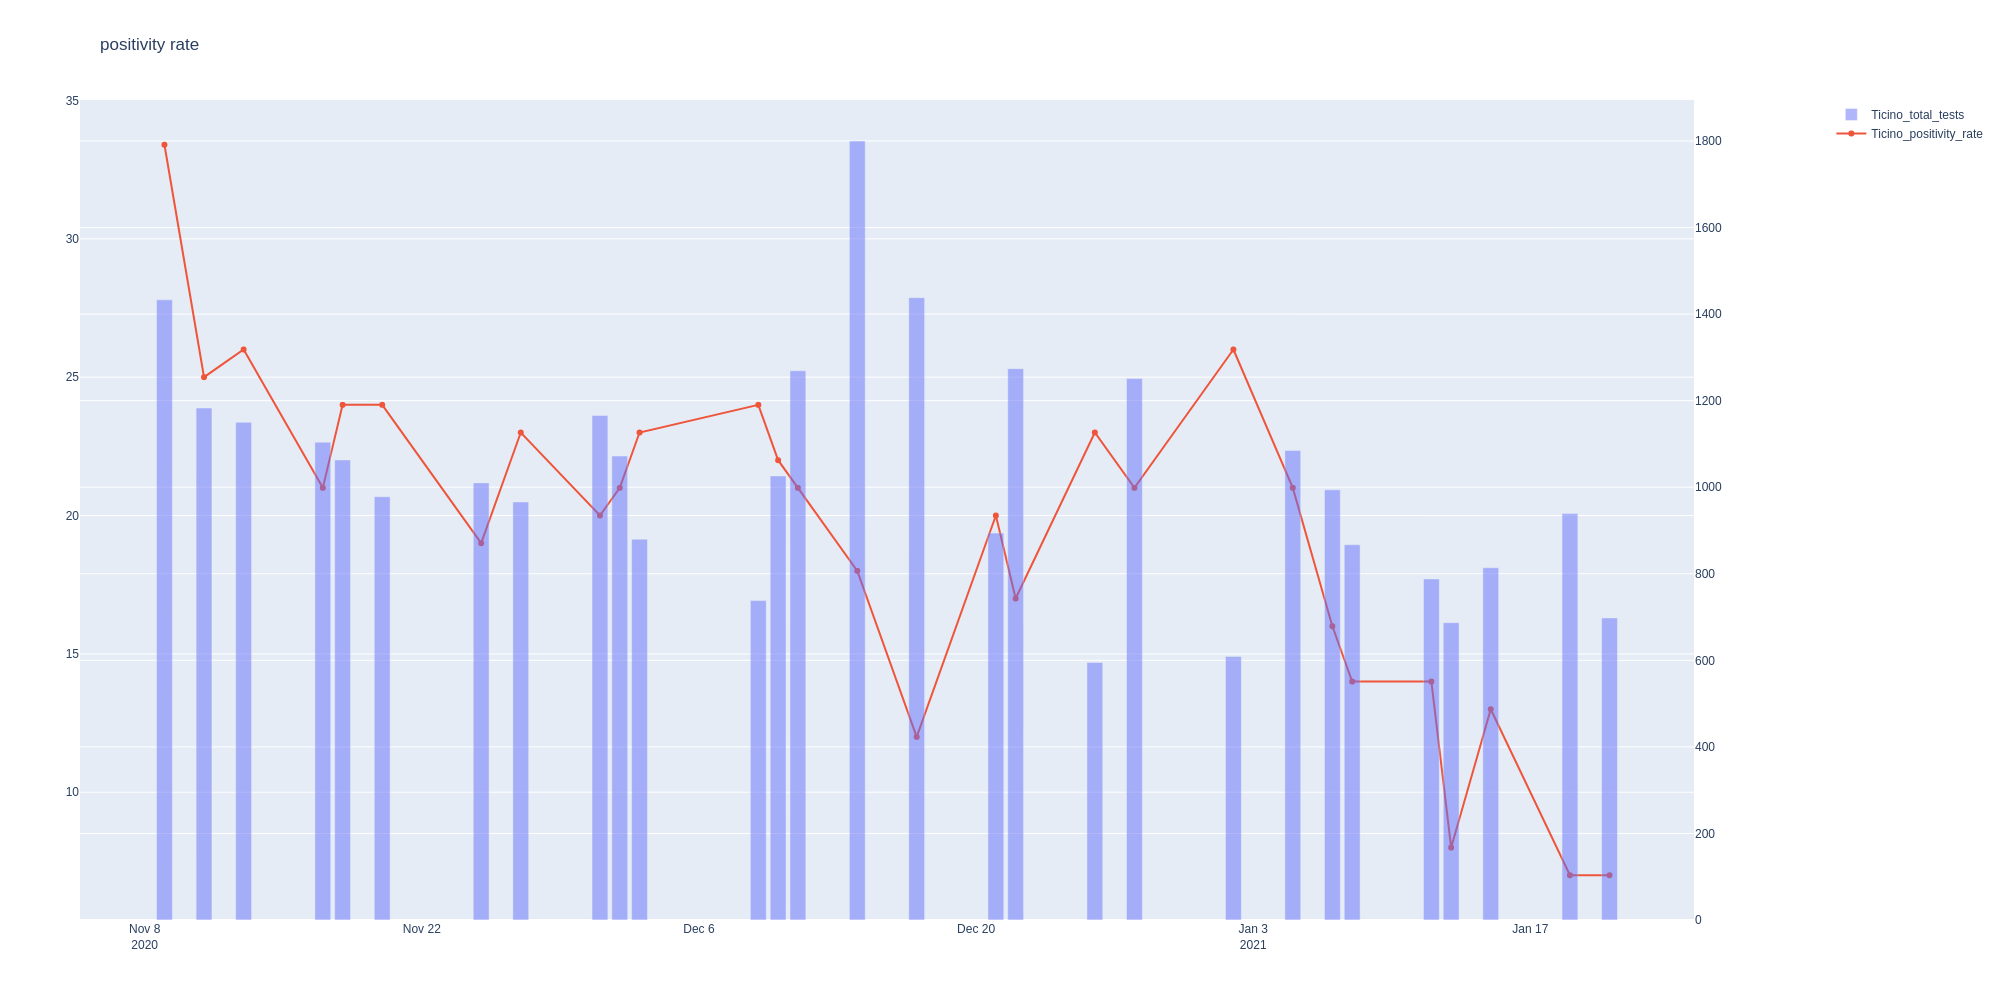
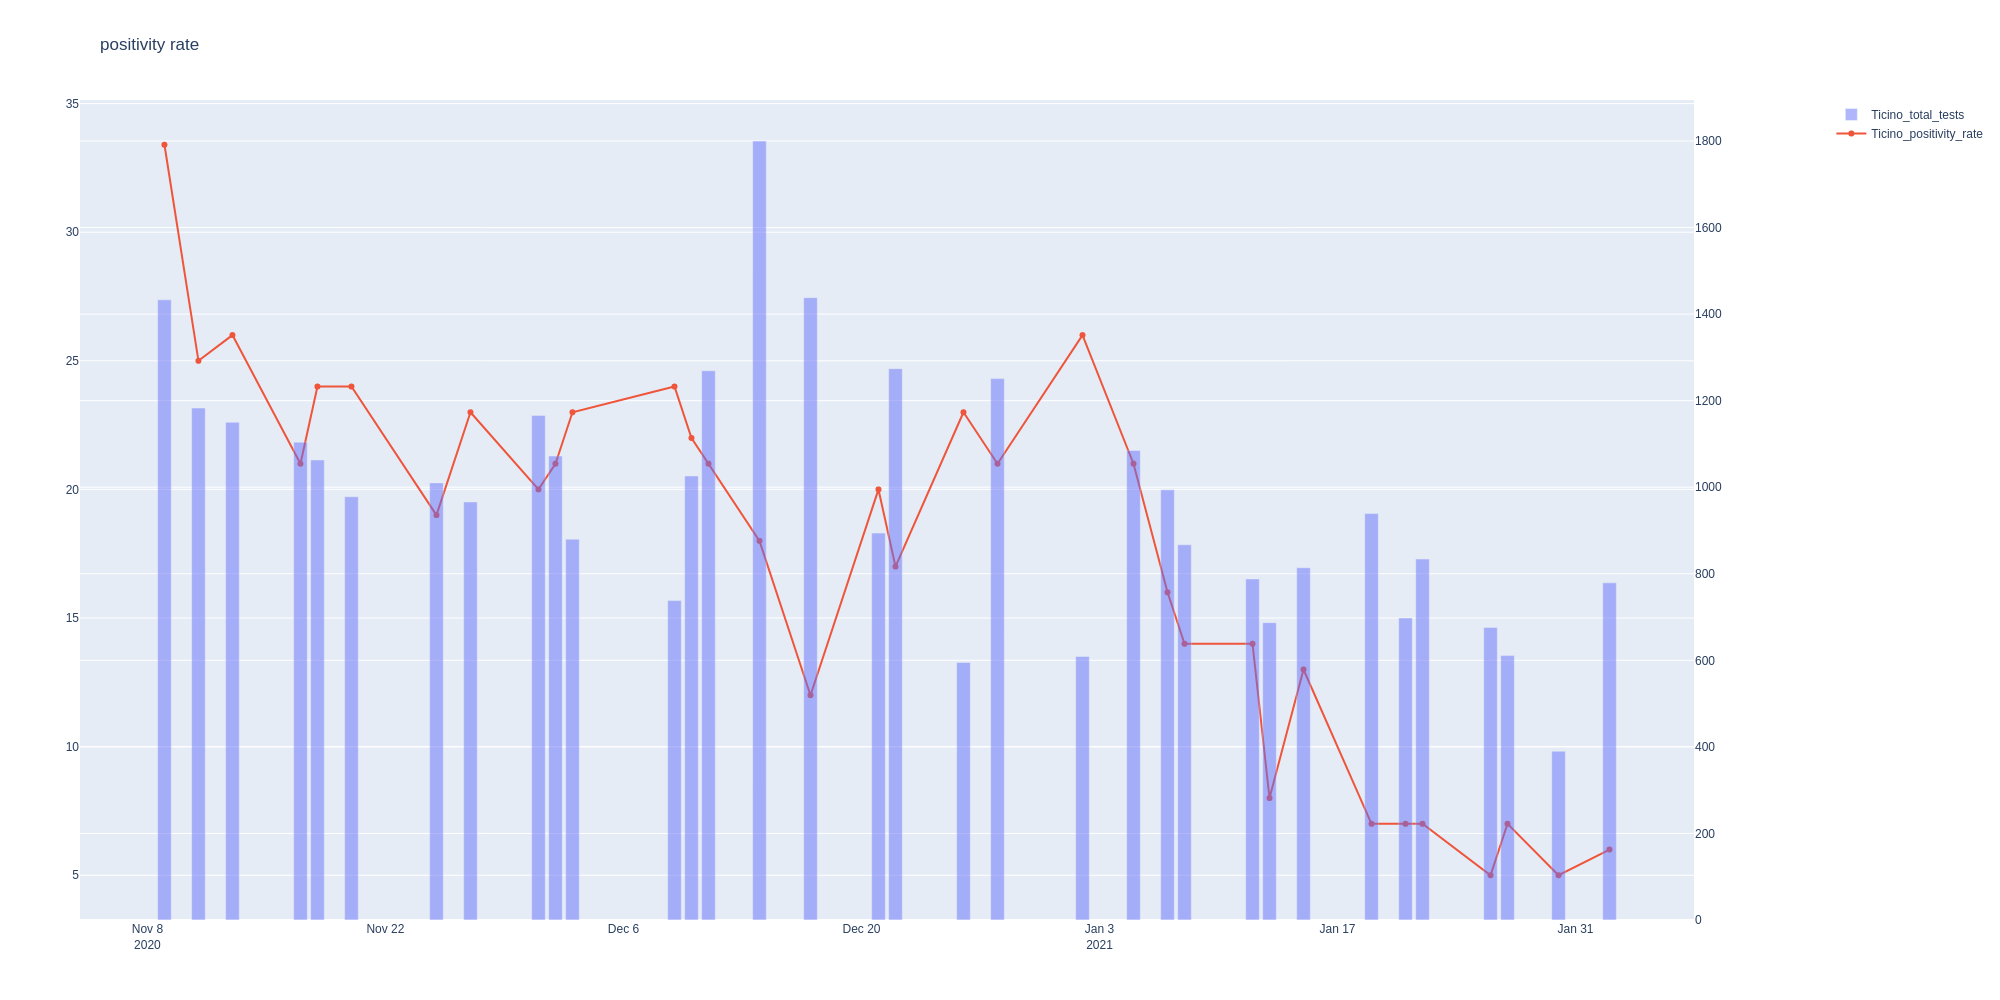
daily conf. with log_y

Changed region(s): [[0.093, 0.124, 0.806, 0.93], [0.093, 0.31, 0.124, 0.372], [0.062, 0.93, 0.093, 0.961]]

diff --git a/main.py b/main.py
@@ -244,7 +244,7 @@ def plot_multi(data, same_plot=False, **kwargs):
                 x=data.index,
                 y=data[col].values,
                 name=col,
-                mode=kwargs.get('mode', 'lines'),
+                mode=kwargs.get('mode', 'lines')
             ))
 
     else:
@@ -258,7 +258,7 @@ def plot_multi(data, same_plot=False, **kwargs):
                     x=data.index,
                     y=data[col].values,
                     name=col,
-                    mode='lines+markers',
+                    mode='lines+markers'
                 ), secondary_y=False)
 
             elif chart_type == 'bars':
@@ -270,6 +270,9 @@ def plot_multi(data, same_plot=False, **kwargs):
                 ), secondary_y=True)
 
     fig.update_layout(title=kwargs.get('title', 'No title'), yaxis_zeroline=True)
+    if kwargs.get('log_y', False):
+        fig.update_yaxes(type="log")
+
     poff(fig, auto_open=True, filename=os.path.join(ARTIFACT_PATH, SOURCE + kwargs.get('title').replace(" ", "_").replace("#", "n") + ".html"))
 
     if SOURCE == 'OpenZH':
@@ -342,6 +345,7 @@ if __name__ == '__main__':
     _df_confirmed['day_of_week'] = _df_confirmed.index.day_name()
     df_confirmed_by_day_of_week = _df_confirmed.pivot(index='week', columns='day_of_week', values='Ticino')
     plot_multi(df_confirmed_by_day_of_week, title="Daily confirmed per Day Of Week", same_plot=ALIGN_ZERO or PER_POPULATION or AVG_ROLLING_WINDOW, mode='lines+markers')
+    plot_multi(df_confirmed_by_day_of_week, title="Daily confirmed per Day Of Week (log)", same_plot=ALIGN_ZERO or PER_POPULATION or AVG_ROLLING_WINDOW, mode='lines+markers', log_y=True)
 
     # # plot percentage changes day over day
     # plot_multi(df_confirmed.pct_change(),  title="Daily confirmed % growth change", same_plot=ALIGN_ZERO or PER_POPULATION)
